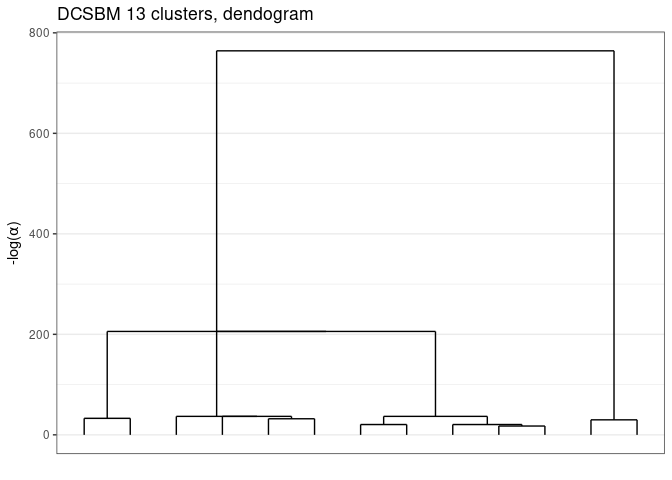
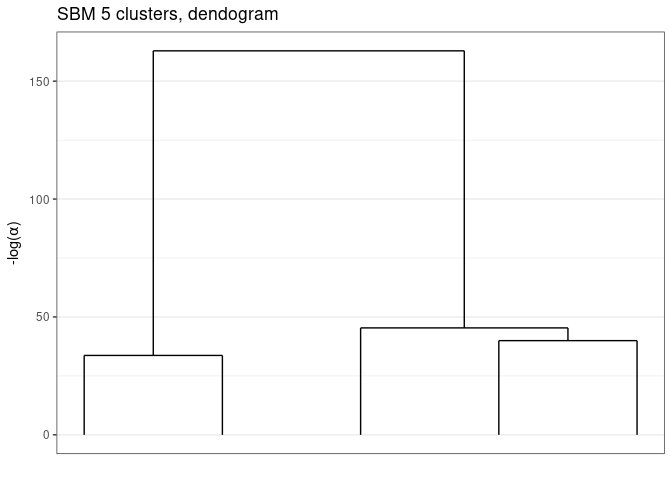
sbm vignette and data docs

diff --git a/README.md b/README.md
@@ -24,7 +24,7 @@ Bouveyron (2021)
 
 The following generative models are available currently :
 
--   **Stochastic Block Models** (see \``?`Sbm-class\` ),
+-   **Stochastic Block Models** (see `` ?`Sbm-class` ``),
 -   **Degree Corrected Stochastic Block Models** (see
     `` ?`DcSbm-class` ``),
 -   **Multinomial Stochastic Block Models** (see
@@ -75,26 +75,36 @@ install.packages("greed")
 The main entry point for using the package is simply the greed function
 (`?greed`). The generative model will be chosen automatically to fit
 with the data provided, but you may specify another choice with the
-model parameter. This is a basic example with the classical Jazz
+model parameter. This is a basic example with the classical Football
 network:
 
 ``` r
 library(greed)
-data(Jazz)
-sol=greed(Jazz)
+data(Books)
+sol <- greed(Books$X)
 #> ------- guess DCSBM model fitting ------
-#> ################# Generation  1: best solution with an ICL of -5987 and 13 clusters #################
-#> ################# Generation  2: best solution with an ICL of -5960 and 13 clusters #################
-#> ################# Generation  3: best solution with an ICL of -5959 and 17 clusters #################
-#> ################# Generation  4: best solution with an ICL of -5949 and 14 clusters #################
-#> ################# Generation  5: best solution with an ICL of -5949 and 14 clusters #################
+#> ################# Generation  1: best solution with an ICL of -1356 and 5 clusters #################
+#> ################# Generation  2: best solution with an ICL of -1346 and 4 clusters #################
+#> ################# Generation  3: best solution with an ICL of -1346 and 4 clusters #################
 #> ------- Final clustering -------
-#> ICL clustering with a DCSBM model, 13 clusters and an icl of -5945.
+#> ICL clustering with a DCSBM model, 3 clusters and an icl of -1345.
 ```
 
-Here Jazz is a square sparse matrix and a `` ?`DcSbm-class` `` model
-will be used by default. Some plotting function enable the exploration
-of the clustering results:
+You may specify the model you want to use and set the priors paramaters
+with the (model argument), the optimization algorithm (alg argument) and
+the initial number of cluster K. Here football is a square sparse matrix
+and a graph clustering `` ?`DcSbm-class` `` model will be used by
+default, and the Hybrid genetic algorithm greed used.
+
+``` r
+sol <- greed(Books$X,model=Sbm(),alg=Seed(),K=10)
+#> ------- guess SBM model fitting ------
+#> ------- Final clustering -------
+#> ICL clustering with a SBM model, 5 clusters and an icl of -1255.
+```
+
+Some plotting function enable the exploration of the clustering results,
+the hierarchical structure between clusters:
 
 ``` r
 plot(sol)
@@ -102,19 +112,43 @@ plot(sol)
 
 <img src="man/figures/plot-1.png" width="60%" />
 
-And the hierarchical structure between clusters:
+Or a summary représentation of the adjacency matrix:
 
 ``` r
-plot(sol,type='tree')
+plot(sol,type='blocks')
 ```
 
 <img src="man/figures/tree-1.png" width="60%" />
+
+You may extract the model fitted parameters with the `?coef` function,
+the clustering with the `?clustering` function, the value of ICL with
+`?ICL`:
+
+``` r
+ICL(sol)
+#> [1] -1255.164
+coef(sol)
+#> $pi
+#> [1] 0.07619048 0.31428571 0.18095238 0.37142857 0.05714286
+#> 
+#> $thetakl
+#>             [,1]        [,2]        [,3]        [,4]       [,5]
+#> [1,] 0.821428571 0.367424242 0.065789474 0.003205128 0.00000000
+#> [2,] 0.367424242 0.106060606 0.006379585 0.003885004 0.00000000
+#> [3,] 0.065789474 0.006379585 0.251461988 0.016194332 0.04385965
+#> [4,] 0.003205128 0.003885004 0.016194332 0.099865047 0.42735043
+#> [5,] 0.000000000 0.000000000 0.043859649 0.427350427 0.73333333
+table(clustering(sol))
+#> 
+#>  1  2  3  4  5 
+#>  8 33 19 39  6
+```
 
 Eventually, one may explore some coarser clustering using the cut
 function:
 
 ``` r
-plot(cut(sol,5))
+plot(cut(sol,3))
 ```
 
 <img src="man/figures/cut-1.png" width="60%" />
@@ -122,25 +156,43 @@ plot(cut(sol,5))
 For large datasets, it is possible to use parallelism to speed-up the
 computation thanks to the
 [future](https://github.com/HenrikBengtsson/future) package. You only
-need to specify the type of backend you want to use.
+need to specify the type of backend you want to use, before calling the
+`?greed` function:
 
 ``` r
 library(future)
 plan(multisession)
-data("Blogs")
-sol=greed(Blogs$X)
-#> ------- guess DCSBM model fitting ------
-#> ################# Generation  1: best solution with an ICL of -61221 and 16 clusters #################
-#> ################# Generation  2: best solution with an ICL of -61078 and 17 clusters #################
-#> ################# Generation  3: best solution with an ICL of -61018 and 17 clusters #################
-#> ################# Generation  4: best solution with an ICL of -60950 and 18 clusters #################
-#> ################# Generation  5: best solution with an ICL of -60901 and 18 clusters #################
-#> ################# Generation  6: best solution with an ICL of -60883 and 18 clusters #################
-#> ################# Generation  7: best solution with an ICL of -60853 and 18 clusters #################
-#> ################# Generation  8: best solution with an ICL of -60853 and 18 clusters #################
-#> ------- Final clustering -------
-#> ICL clustering with a DCSBM model, 17 clusters and an icl of -60836.
-plot(sol)
 ```
 
-<img src="man/figures/future-1.png" width="60%" />
+# Classical clustering, GMM
+
+``` r
+data("diabetes",package = "mclust")
+X <- diabetes[,-1]
+sol <- greed(X,model=Gmm())
+#> ------- GMM model fitting ------
+#> ################# Generation  1: best solution with an ICL of -2419 and 6 clusters #################
+#> ################# Generation  2: best solution with an ICL of -2402 and 5 clusters #################
+#> ################# Generation  3: best solution with an ICL of -2401 and 4 clusters #################
+#> ################# Generation  4: best solution with an ICL of -2396 and 4 clusters #################
+#> ################# Generation  5: best solution with an ICL of -2396 and 4 clusters #################
+#> ------- Final clustering -------
+#> ICL clustering with a GMM model, 3 clusters and an icl of -2395.
+table(diabetes$cl,clustering(sol))
+#>           
+#>             1  2  3
+#>   Chemical  1 24 11
+#>   Normal    0  2 74
+#>   Overt    27  6  0
+gmmpairs(sol,X)
+```
+
+<img src="man/figures/diabetes-gmm-1.png" width="90%" />
+
+# Questionnary and item response theory datasets, LCA
+
+# Graphs, SBM like models
+
+# Mixture of Regression
+
+# Advanced models
